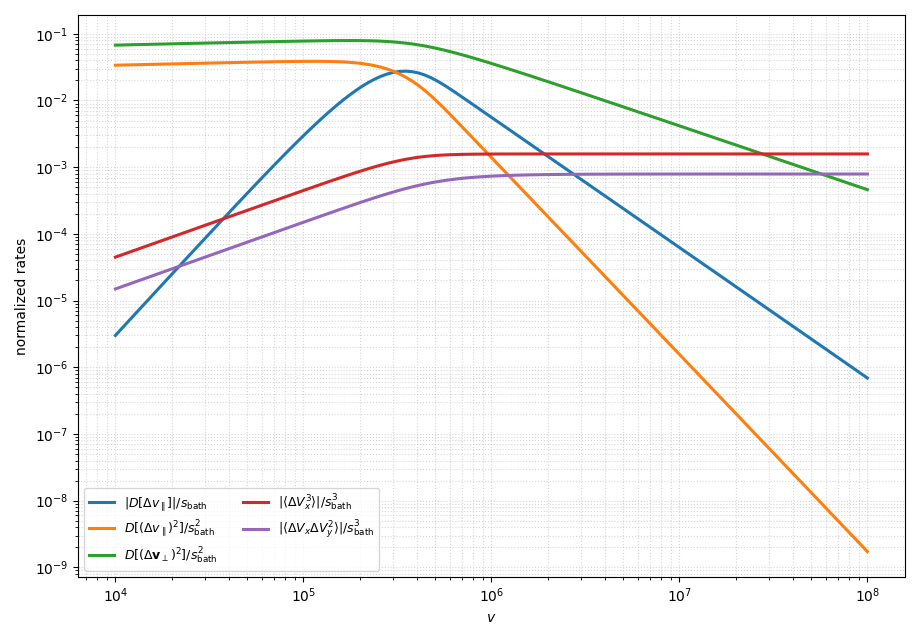
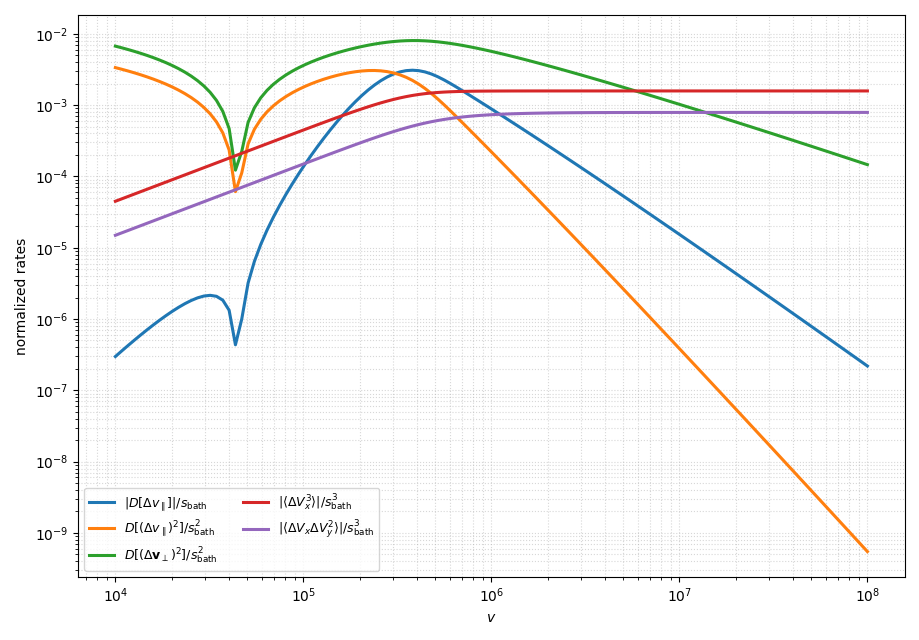
Refactor Lambda function in check_binney.py for simplified output and enable plot display by uncommenting plt.show().
P.S. Something similar we had seen in the first numerical simulations

diff --git a/Henon1960/check_binney/check_binney.py b/Henon1960/check_binney/check_binney.py
@@ -32,7 +32,7 @@ def cum_at(x, xgrid, cum):
     return np.interp(xx, xgrid, cum)
 
 def Lambda(v):
-    Lam = (2.0 * w**3 / (v**2)) * np.sqrt(sigma0 / (4.0*np.pi))
+    Lam = (2.0 * w**3 / (v**2)) #* np.sqrt(sigma0 / (4.0*np.pi))
     print(Lam)
     return Lam#np.maximum(Lam, 1.0 + 1e-12)
 
@@ -95,4 +95,4 @@ plt.legend(ncol=2, fontsize=9)
 plt.tight_layout()
 plt.savefig("binney_henon.pdf")
 plt.savefig("binney_henon.png")
-# plt.show()
+plt.show()
